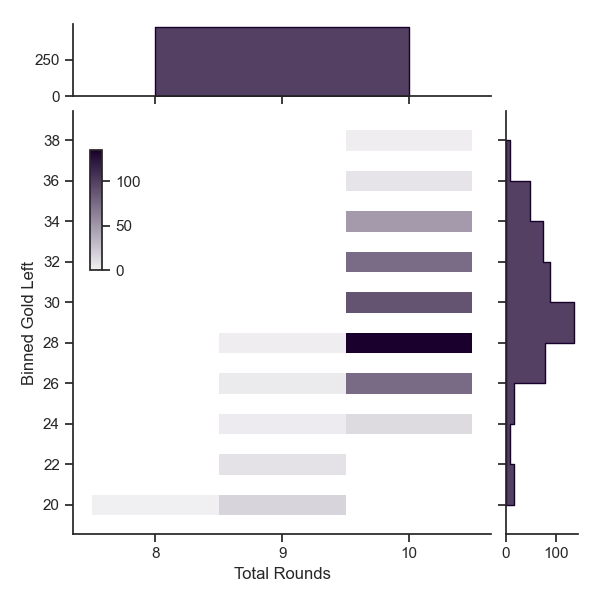
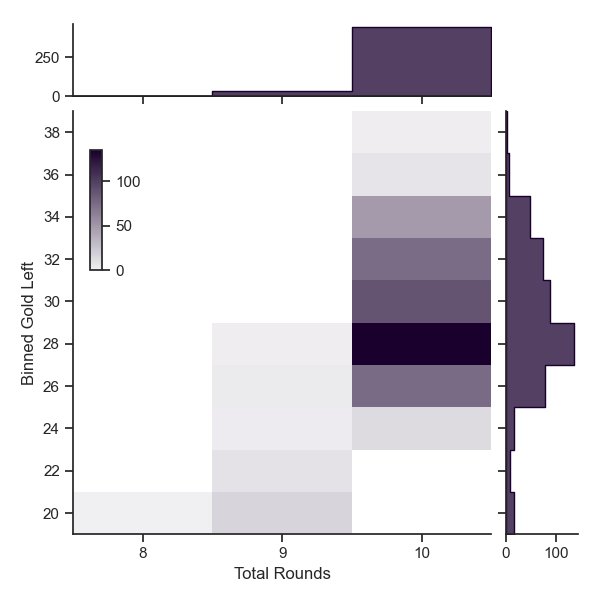
new images and data visualization

diff --git a/src/graphing.py b/src/graphing.py
@@ -4,6 +4,8 @@ import pandas as pd
 import matplotlib.pyplot as plt
 import numpy as np
 from simulator import simulation
+from total_gold_simulator import total_gold_simulation
+from capped_simulator import capped_simulation
 
 def create_joint_grid(df):
     sns.set_theme(style="ticks")
@@ -62,27 +64,48 @@ def create_binned_joint_grid(df):
 
     cax = g.figure.add_axes([.15, .55, .02, .2])
 
+    # Define bins for the x-axis
+    x_bins = np.arange(df["Total Rounds"].min() - 0.5, df["Total Rounds"].max() + 1.5, 1)
+    # Define bins for the y-axis
+    y_bins = np.arange(df["Binned Gold Left"].min() - 1, df["Binned Gold Left"].max() + 2, 2)
+
+    print(y_bins)
+
     # Add the joint and marginal histogram plots
     g.plot_joint(
         sns.histplot, 
-        discrete=(True, True), 
-        binwidth=2,
+        discrete=(True, False),
         cmap="light:#19002D", 
-        pmax=.8, 
+        pmax=0.8, 
         cbar=True, 
         cbar_ax=cax,
-        cbar_kws={"shrink": 0.75}
+        cbar_kws={"shrink": 0.75},
+        bins=(x_bins, y_bins),
     )
-    g.plot_marginals(sns.histplot, element="step", color="#19002D", binwidth=2)  
+    
+    g.plot_marginals(sns.histplot, element="step", color="#19002D", bins=x_bins, common_norm=False, common_bins=False)
+    g.plot_marginals(sns.histplot, element="step", color="#19002D", bins=y_bins, common_norm=False, common_bins=False, fill=True, multiple="dodge")
+
+    # Explicitly set the limits of the x and y axes
+    g.ax_joint.set_xlim(df["Total Rounds"].min() - 0.5, df["Total Rounds"].max() + 0.5)
+    g.ax_joint.set_ylim(df["Binned Gold Left"].min() - 1, df["Binned Gold Left"].max() + 1)
+
+    # Set the ticks for x and y axis
+    g.ax_joint.set_xticks(np.arange(df["Total Rounds"].min() - 0.5, df["Total Rounds"].max() + 1.5, 1))
+    g.ax_joint.set_yticks(np.arange(df["Binned Gold Left"].min() - 1, df["Binned Gold Left"].max() + 1, 2))
+
+    # Setting the ticks for the marginal axes can be done similarly, if needed
+    g.ax_marg_x.set_xlim(df["Total Rounds"].min() - 0.5, df["Total Rounds"].max() + 0.5)
+    g.ax_marg_y.set_ylim(df["Binned Gold Left"].min() - 1, df["Binned Gold Left"].max() + 1)
 
     # Adjust x and y axis to only show whole numbers
     g.ax_joint.xaxis.set_major_locator(plt.MultipleLocator(1))
-    g.ax_joint.yaxis.set_major_locator(plt.MultipleLocator(2))  # Adjust for the binning of 2
+    g.ax_joint.yaxis.set_major_locator(plt.MultipleLocator(2))
 
     # Showing the plot
     plt.show()
 
-def create_surface_plot(df, y_tick_labels):
+def create_surface_plot(df, y_tick_labels, labels):
     # Create a figure and a 3D axis
     fig = plt.figure(figsize=(10, 7))
     ax = fig.add_subplot(111, projection='3d')
@@ -104,9 +127,9 @@ def create_surface_plot(df, y_tick_labels):
     fig.colorbar(surf, shrink=0.5, aspect=10, pad=0.1)
 
     # Set labels
-    ax.set_xlabel('Starting Gold')
-    ax.set_ylabel('Goal Gold')
-    ax.set_zlabel('Average Number of Rounds')
+    ax.set_xlabel(labels[0])
+    ax.set_ylabel(labels[1])
+    ax.set_zlabel(labels[2])
 
     # Set the y-ticks to match the index of the dataframe
     ax.set_yticks(range(len(df.index)))
@@ -119,45 +142,52 @@ def create_surface_plot(df, y_tick_labels):
     # Show the plot
     plt.show()
 
+def create_ridge_plot(df):
+    return
 
 def main():
-    # results = []
-    # simulation(0, 0, True, 8, 128, results)
-    # df = pd.DataFrame(results, columns = ['Total Rounds', 'Gold Left'])
 
-    # create_joint_grid(df)
-    # # create_binned_joint_grid(df)
+    # NAIVE FOUNDATION
+    results = []
+    simulation(0, 0, True, 8, 128, results)
+    df = pd.DataFrame(results, columns = ['Total Rounds', 'Gold Left'])
+
+    create_joint_grid(df)
+    create_binned_joint_grid(df)
     
-    # overlapping densities plot for this
+    # FIRST RELAXATION
 
-    # different_starts = {}
-    # start_averages = []
-    # for i in range(5, 15):
-    #     results = []
-    #     simulation(0,0,True,i,128,results)
-    #     df = pd.DataFrame(results, columns = ['Total Rounds', 'Gold Left'])
-    #     start_averages.append(df["Total Rounds"].mean())
-    #     different_starts[i] = df
+    # AVERAGE ROUND WITH DIFFERENT STARTING GOLD AND 8+20 GOAL - NAIVE VERSION
+
+    different_starts = {}
+    start_averages = []
+    for i in range(5, 15):
+        results = []
+        simulation(0,0,True,i,128,results)
+        df = pd.DataFrame(results, columns = ['Total Rounds', 'Gold Left'])
+        start_averages.append(df["Total Rounds"].mean())
+        different_starts[i] = df
     
-    # print(start_averages)
+    print(start_averages)
+    # overlapping densities plot
 
-    # another overlapping densities plot for this
-
+    # AVERAGE ROUND WITH 8 STARTING GOLD AND DIFFERENT GOALS - NAIVE VERSION
     # Level+Gold   8+0  8+10 8+20 8+30 8+30 8+30 9+0  9+10
     breakpoint_labels = ['8+0g', '8+10g', '8+20g', '8+30g', '8+40g', '8+50g', '9+0g', '9+10g']
     breakpoints = [108, 118, 128, 138, 148, 158, 188, 208]
-    # different_goals = {}
-    # goal_averages = []
-    # for breakpoint in breakpoints:
-    #     results=[]
-    #     simulation(0, 0, True, 8, breakpoint, results)
-    #     df = pd.DataFrame(results, columns = ['Total Rounds', 'Gold Left'])
-    #     goal_averages.append(df["Total Rounds"].mean())
-    #     different_goals[breakpoint] = df
+    different_goals = {}
+    goal_averages = []
+    for breakpoint in breakpoints:
+        results=[]
+        simulation(0, 0, True, 8, breakpoint, results)
+        df = pd.DataFrame(results, columns = ['Total Rounds', 'Gold Left'])
+        goal_averages.append(df["Total Rounds"].mean())
+        different_goals[breakpoint] = df
 
-    # print(goal_averages)
+    print(goal_averages)
+    # overlapping densities plot
 
-    # combo graph of breakpoints and gold starts, make a surface plot with y axis = rounds
+    # AVERAGE ROUND FOR DIFFERENT STARTS AND GOALS - NAIVE VERSION
 
     combo_averages = []
     for breakpoint in breakpoints:
@@ -172,10 +202,43 @@ def main():
     combos = pd.DataFrame(combo_averages, index=breakpoints, columns=range(5,15))
     print(combos)
 
+    labels = ["Starting Gold", "Goal Gold", "Average Number of Rounds"]
     create_surface_plot(combos, breakpoint_labels)
 
-    # Total gold by 4-1 for various gold starts?
-    # modify simulator to return when round = 12
+    # FULL EXECUTION AND AVERAGE TOTAL GOLD BY 4-1 FOR DIFFERENT STARTS - NAIVE VERSION
+    total_gold_different_starts = {}
+    total_gold_averages_starts = []
+    for i in range(5, 15):
+        results = []
+        total_gold_simulation(0,0,True,i,12,results)
+        df = pd.DataFrame(results, columns = ['Total Gold'])
+        total_gold_averages_starts.append(df["Total Gold"].mean())
+        total_gold_different_starts[i] = df
+    
+    # overlapping ridge density plots
+
+    # AVERAGE TOTAL GOLD BY ROUND - NAIVE VERSION
+    total_gold_labels = ['3-5', '3-6', '3-7', '4-1', '4-2', '4-3', '4-5']
+    combo_averages = []
+    for i in range(9, 16):
+        starts = []
+        for j in range(5, 15):
+            total_gold = []
+            total_gold_simulation(0,0,True,j, i, total_gold)
+            df = pd.DataFrame(total_gold, columns = ['Total Gold'])
+            starts.append(df["Total Gold"].mean())
+        combo_averages.append(starts)
+    
+    combos = pd.DataFrame(combo_averages, index=range(9,16), columns=range(5,15))
+    
+    labels = ["Starting Gold", "Round", "Total Gold"]
+
+    create_surface_plot(combos, total_gold_labels, labels)
+
+    # SECOND RELAXATION
+
+    
+    
 
 
 

diff --git a/src/capped_simulator.py b/src/capped_simulator.py
@@ -1,0 +1,78 @@
+# Initial premise:
+#   Level 3, 8 gold on 2-1
+#   level only if above 50 gold
+#   goal is to hit level 8
+#   initial goal gold is level 8 + 20 = 128 gold
+
+# strong assumptions
+#   dont care about buying units
+#   unlimited health
+
+# initial variables
+#   number of rounds
+#   total streak
+#   win?
+#   total gold
+#   goal gold
+
+def capped_simulation(rounds, streak, win, gold, goal, results):
+    # streak gold is calculated as so.
+    #   streak = 0 → 0
+    #   streak = 1 → +1
+    #   4 > streak > 1 → +2
+    #   streak = 4 → +3
+    #   streak > 5 → +4
+
+    streak_gold = 0 # depending on your streak, you'll get bonus gold
+
+    if streak == 0:
+        streak_gold = 0
+    elif streak == 1:
+        streak_gold = 1
+    elif streak == 2 or streak == 3:
+        streak_gold = 2
+    elif streak == 4:
+        streak_gold = 3
+    elif streak >= 5:
+        streak_gold = 4
+
+    interest = min(gold // 10, 5) # interest gold is at most 5 or your gold/10, so we take the minimum
+
+    gold += (streak_gold + interest)
+
+    if rounds % 2 == 0 and rounds > 0: # every 2 rounds after 2-1, you get 4 xp in total, decreasing the gold you need to hit level 8
+        goal -= 4
+
+    # Passive Income from TFT Wiki, I think it's outdated
+
+    # if rounds == 0:
+    #     gold += 2
+    # elif rounds == 6:
+    #     gold += 2
+    # elif rounds == 12:
+    #     gold += 3
+    # elif rounds == 18:
+    #     print(rounds)
+    #     gold += 4
+    # else:
+    #     gold += 5
+
+    # Passive income from MetaTFT
+    if rounds == 0: # if it is the first round (2-1) you only get 4 gold. otherwise you get 5.
+        gold += 4
+    else:
+        gold += 5
+
+    if win and rounds % 6 != 0: # if you won the round, and it wasn't a creep round before, get a win gold
+        gold += 1
+
+
+    if gold >= goal: # if conditions are fulfilled, add number of rounds and gold left to results array. Can add more interesting data instead here.
+        results.append((rounds, gold-goal + 20))
+    elif rounds % 6 == 5: # if it's a creep round, keep streak and type of streak, but don't add to it.
+        capped_simulation(rounds + 1, streak, win, gold, goal, results)
+    else: # on normal rounds, we recursively call the function again, but with a continued streak and a change in streak.
+        capped_simulation(rounds + 1, 1, not win, gold, goal, results)
+        capped_simulation(rounds + 1, streak + 1, win, gold, goal, results)
+        
+

diff --git a/src/total_gold_simulator.py b/src/total_gold_simulator.py
@@ -15,7 +15,7 @@
 #   total gold
 #   goal gold
 
-def capped_simulation(rounds, streak, win, gold, goal, results):
+def total_gold_simulation(rounds, streak, win, gold, end, results):
     # streak gold is calculated as so.
     #   streak = 0 → 0
     #   streak = 1 → +1
@@ -40,23 +40,6 @@ def capped_simulation(rounds, streak, win, gold, goal, results):
 
     gold += (streak_gold + interest)
 
-    if rounds % 2 == 0 and rounds > 0: # every 2 rounds after 2-1, you get 4 xp in total, decreasing the gold you need to hit level 8
-        goal -= 4
-
-    # Passive Income from TFT Wiki, I think it's outdated
-
-    # if rounds == 0:
-    #     gold += 2
-    # elif rounds == 6:
-    #     gold += 2
-    # elif rounds == 12:
-    #     gold += 3
-    # elif rounds == 18:
-    #     print(rounds)
-    #     gold += 4
-    # else:
-    #     gold += 5
-
     # Passive income from MetaTFT
     if rounds == 0: # if it is the first round (2-1) you only get 4 gold. otherwise you get 5.
         gold += 4
@@ -67,12 +50,12 @@ def capped_simulation(rounds, streak, win, gold, goal, results):
         gold += 1
 
 
-    if gold >= goal: # if conditions are fulfilled, add number of rounds and gold left to results array. Can add more interesting data instead here.
-        results.append((rounds, gold-goal + 20))
+    if rounds == end: # if conditions are fulfilled, add number of rounds and gold left to results array. Can add more interesting data instead here.
+        results.append(gold)
     elif rounds % 6 == 5: # if it's a creep round, keep streak and type of streak, but don't add to it.
-        simulation(rounds + 1, streak, win, gold, goal, results)
+        total_gold_simulation(rounds + 1, streak, win, gold, end, results)
     else: # on normal rounds, we recursively call the function again, but with a continued streak and a change in streak.
-        simulation(rounds + 1, 1, not win, gold, goal, results)
-        simulation(rounds + 1, streak + 1, win, gold, goal, results)
+        total_gold_simulation(rounds + 1, 1, not win, gold, end, results)
+        total_gold_simulation(rounds + 1, streak + 1, win, gold, end, results)
         
 
